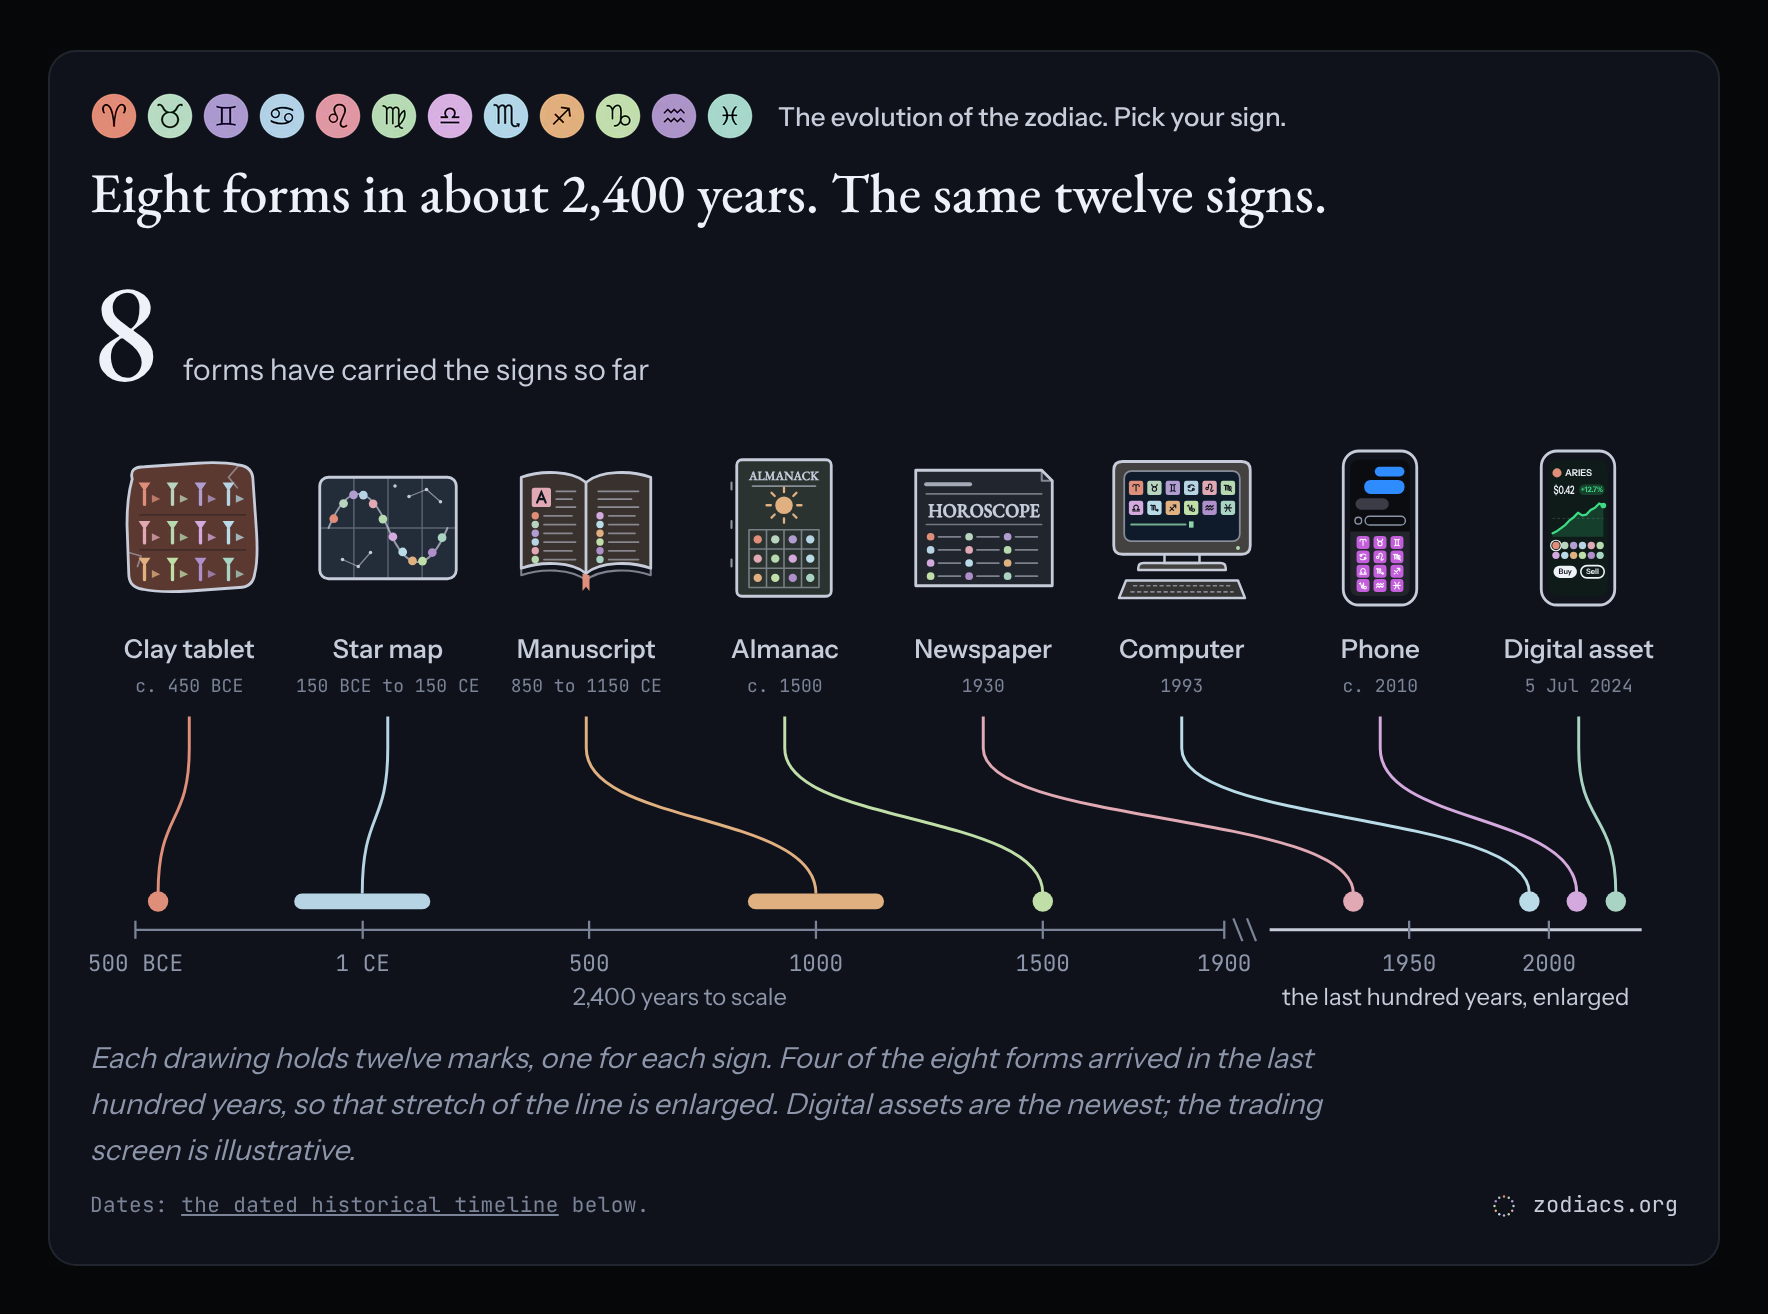
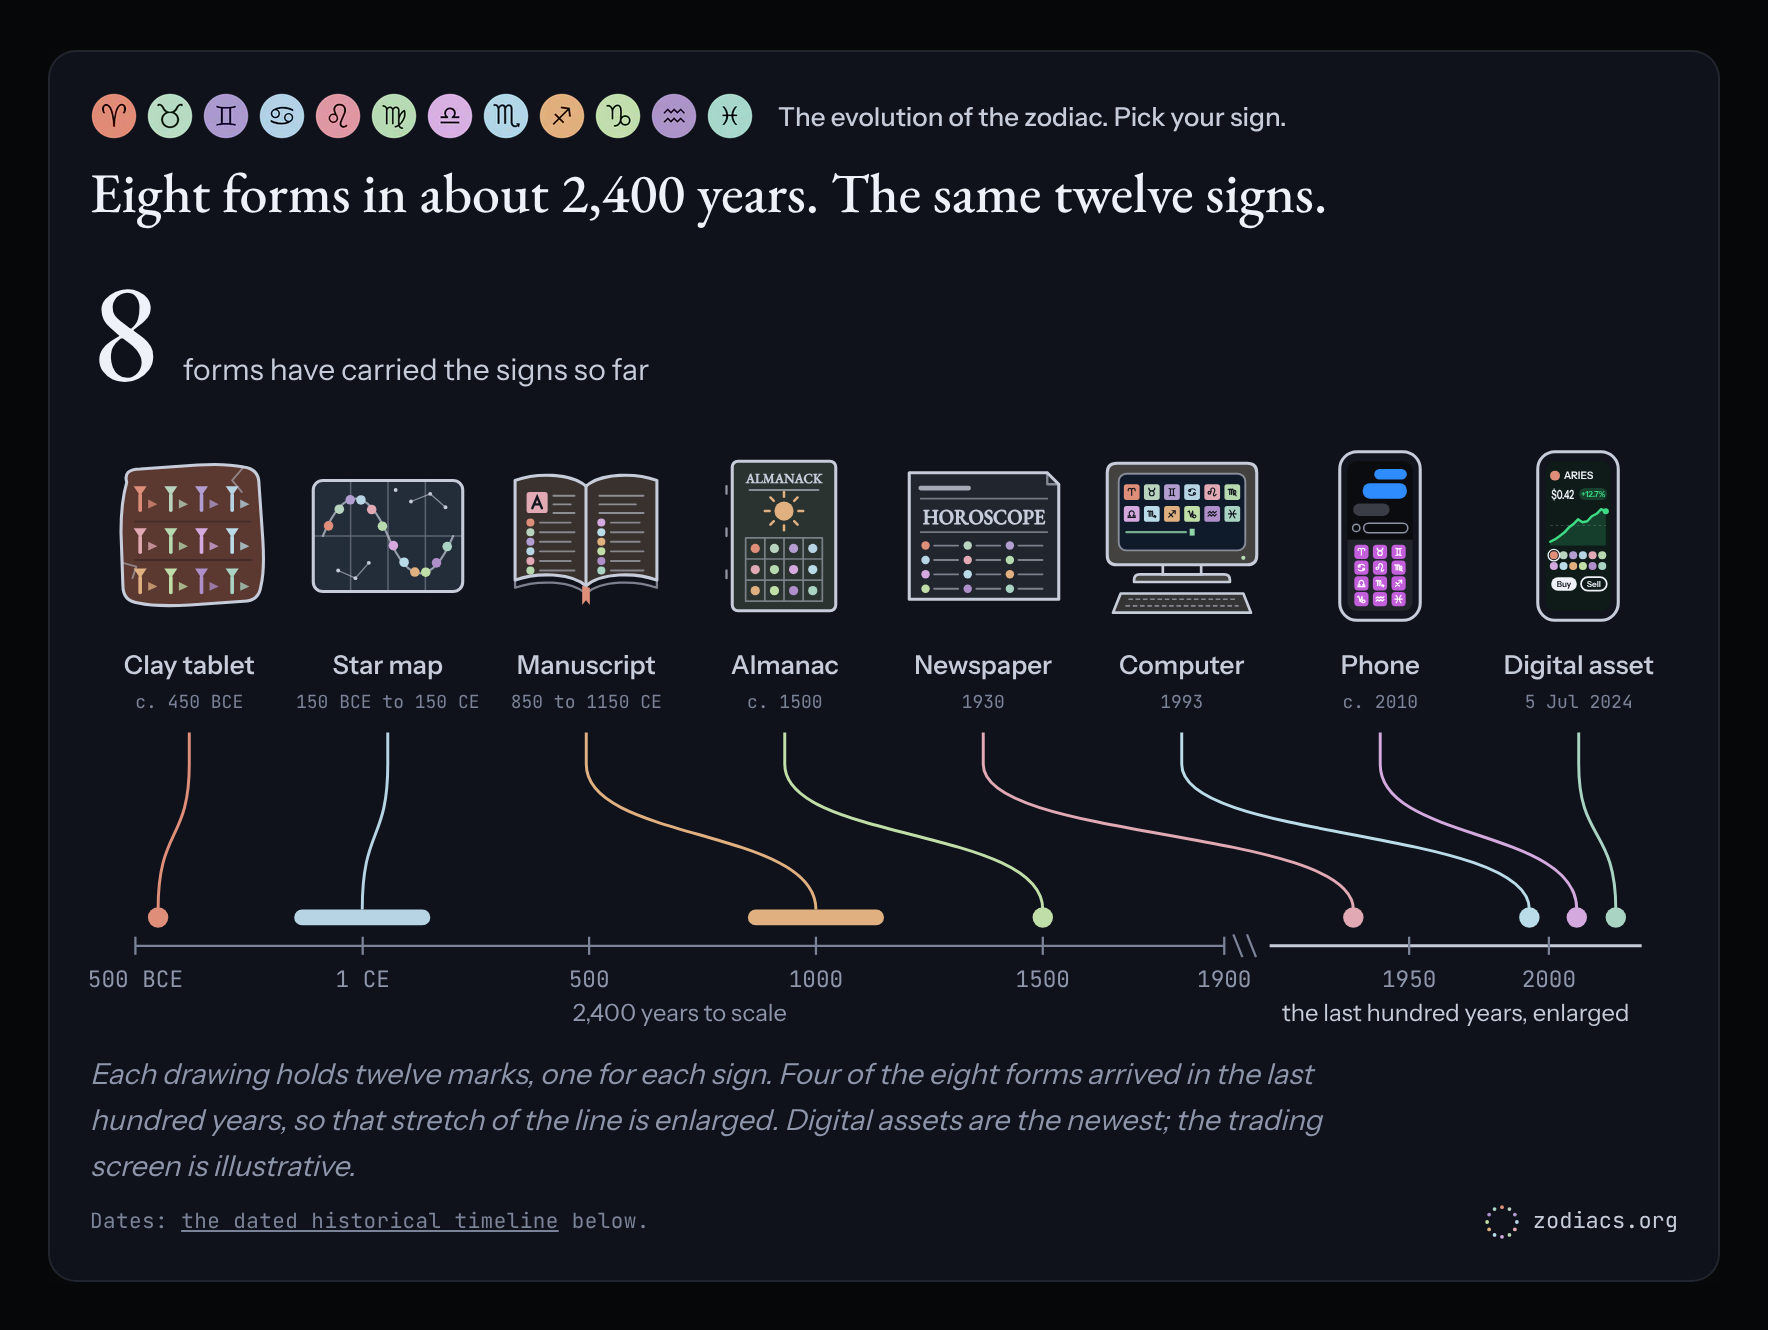
Thesis timeline plate: slightly larger drawings, a legible brand ring, share image re-rendered
Review of the eight-form build: the drawings sat small in their columns, so
their box goes from 84 to 92 px at desktop widths; the brand ring's twelve
dots were under a pixel wide at 16 px, so its viewBox is cropped to the ring
and it is drawn at 18 px. The share image is rendered again from this state.

Claude-Session: https://claude.ai/code/session_017aVyvMeG3Sxu8Ds3R1JyHe

diff --git a/public/thesis/index.html b/public/thesis/index.html
@@ -1113,7 +1113,7 @@
     #fig-1 .transmission::after { display: none; }
     #fig-1 .era { padding: 0 2px; }
     #fig-1 .era__object {
-      width: 84px; height: 84px; margin: 0 auto 10px; padding: 0;
+      width: 92px; height: 92px; margin: 0 auto 10px; padding: 0;
       background: none; border: 0; border-radius: 0; box-shadow: none;
       color: var(--ink-2);
     }
@@ -1164,7 +1164,7 @@
       display: inline-flex; align-items: center; gap: 6px; margin-left: auto; align-self: center;
       font-family: var(--mono); font-size: 11px; line-height: 1.6; color: var(--ink-2); white-space: nowrap;
     }
-    #fig-1 .carry-brand svg { display: block; width: 16px; height: 16px; flex: none; }
+    #fig-1 .carry-brand svg { display: block; width: 18px; height: 18px; flex: none; }
     /* The share image is rendered from the live plate, with no controls and no hover. */
     html.is-capture #fig-1 .carry-actions { display: none; }
     html.is-capture #fig-1 .era__tip, html.is-capture #fig-1 .era::before { visibility: hidden !important; opacity: 0 !important; }
@@ -2189,7 +2189,7 @@
             </div>
             <svg class="carry-axis" viewBox="0 0 700 132" aria-hidden="true"><path class="carry-lead" pathLength="1" data-f="0" style="--i:0;--t:100ms" d="M43.75 2V16C43.75 50,30.0 44,30.0 80" fill="none" stroke="#DE8E79" stroke-width="1.3"/><circle class="carry-mark" data-f="0" style="--i:0;--t:100ms" cx="30.0" cy="83.5" r="4.5" fill="#DE8E79"/><path class="carry-lead" pathLength="1" data-f="1" style="--i:1;--t:420ms" d="M131.25 2V16C131.25 50,120.0 44,120.0 80" fill="none" stroke="#B6D4E4" stroke-width="1.3"/><rect class="carry-mark" data-f="1" style="--i:1;--t:420ms" x="90.0" y="80" width="60.0" height="7" rx="3.5" fill="#B6D4E4"/><path class="carry-lead" pathLength="1" data-f="2" style="--i:2;--t:1270ms" d="M218.75 2V16C218.75 50,320.0 44,320.0 80" fill="none" stroke="#E0B080" stroke-width="1.3"/><rect class="carry-mark" data-f="2" style="--i:2;--t:1270ms" x="290.0" y="80" width="60.0" height="7" rx="3.5" fill="#E0B080"/><path class="carry-lead" pathLength="1" data-f="3" style="--i:3;--t:1690ms" d="M306.25 2V16C306.25 50,420.0 44,420.0 80" fill="none" stroke="#C0DEA8" stroke-width="1.3"/><circle class="carry-mark" data-f="3" style="--i:3;--t:1690ms" cx="420.0" cy="83.5" r="4.5" fill="#C0DEA8"/><path class="carry-lead" pathLength="1" data-f="4" style="--i:4;--t:2260ms" d="M393.75 2V16C393.75 50,556.9 44,556.9 80" fill="none" stroke="#E0A9B4" stroke-width="1.3"/><circle class="carry-mark" data-f="4" style="--i:4;--t:2260ms" cx="556.9" cy="83.5" r="4.5" fill="#E0A9B4"/><path class="carry-lead" pathLength="1" data-f="5" style="--i:5;--t:2590ms" d="M481.25 2V16C481.25 50,634.5 44,634.5 80" fill="none" stroke="#B9DCE8" stroke-width="1.3"/><circle class="carry-mark" data-f="5" style="--i:5;--t:2590ms" cx="634.5" cy="83.5" r="4.5" fill="#B9DCE8"/><path class="carry-lead" pathLength="1" data-f="6" style="--i:6;--t:2810ms" d="M568.75 2V16C568.75 50,655.4 44,655.4 80" fill="none" stroke="#D3A9DE" stroke-width="1.3"/><circle class="carry-mark" data-f="6" style="--i:6;--t:2810ms" cx="655.4" cy="83.5" r="4.5" fill="#D3A9DE"/><path class="carry-lead" pathLength="1" data-f="7" style="--i:7;--t:3030ms" d="M656.25 2V16C656.25 50,672.6 44,672.6 80" fill="none" stroke="#A9D4C4" stroke-width="1.3"/><circle class="carry-mark" data-f="7" style="--i:7;--t:3030ms" cx="672.6" cy="83.5" r="4.5" fill="#A9D4C4"/><g class="carry-line"><path d="M20 96H500" stroke="#7c8496"/><path d="M504 91l4 10M510 91l4 10" stroke="#7c8496" stroke-width="1"/><path d="M520 96H684" stroke="#c6ccda" stroke-width="1.4"/></g><path class="carry-tick" d="M20.0 92V100" stroke="#7c8496"/><text class="carry-tick" x="20.0" y="114" text-anchor="middle" font-size="10" fill="#8b93a5">500 BCE</text><path class="carry-tick" d="M120.2 92V100" stroke="#7c8496"/><text class="carry-tick" x="120.2" y="114" text-anchor="middle" font-size="10" fill="#8b93a5">1 CE</text><path class="carry-tick" d="M220.0 92V100" stroke="#7c8496"/><text class="carry-tick" x="220.0" y="114" text-anchor="middle" font-size="10" fill="#8b93a5">500</text><path class="carry-tick" d="M320.0 92V100" stroke="#7c8496"/><text class="carry-tick" x="320.0" y="114" text-anchor="middle" font-size="10" fill="#8b93a5">1000</text><path class="carry-tick" d="M420.0 92V100" stroke="#7c8496"/><text class="carry-tick" x="420.0" y="114" text-anchor="middle" font-size="10" fill="#8b93a5">1500</text><path class="carry-tick" d="M500.0 92V100" stroke="#7c8496"/><text class="carry-tick" x="500.0" y="114" text-anchor="middle" font-size="10" fill="#8b93a5">1900</text><path class="carry-tick" d="M581.5 92V100" stroke="#7c8496"/><text class="carry-tick" x="581.5" y="114" text-anchor="middle" font-size="10" fill="#8b93a5">1950</text><path class="carry-tick" d="M643.1 92V100" stroke="#7c8496"/><text class="carry-tick" x="643.1" y="114" text-anchor="middle" font-size="10" fill="#8b93a5">2000</text><text class="carry-note" x="260" y="129" text-anchor="middle" font-size="10.5" fill="#8b93a5">2,400 years to scale</text><text class="carry-note" x="602" y="129" text-anchor="middle" font-size="10.5" fill="#c6ccda">the last hundred years, enlarged</text></svg>
             <p class="zfig-cap">Each drawing holds twelve marks, one for each sign. Four of the eight forms arrived in the last hundred years, so that stretch of the line is enlarged. Digital assets are the newest; the trading screen is illustrative.</p>
-            <div class="carry-foot"><p class="zfig-src">Dates: <a href="#dated-timeline">the dated historical timeline</a> below.</p><span class="carry-brand"><svg viewBox="0 0 64 64" aria-hidden="true"><circle cx="32.000" cy="13.000" r="2.4" fill="#DE8E79"/><circle cx="41.500" cy="15.546" r="2.4" fill="#B9D4BE"/><circle cx="48.454" cy="22.500" r="2.4" fill="#B29DD0"/><circle cx="51.000" cy="32.000" r="2.4" fill="#B6D4E4"/><circle cx="48.454" cy="41.500" r="2.4" fill="#E0A9B4"/><circle cx="41.500" cy="48.454" r="2.4" fill="#B7D9B0"/><circle cx="32.000" cy="51.000" r="2.4" fill="#D3A9DE"/><circle cx="22.500" cy="48.454" r="2.4" fill="#B9DCE8"/><circle cx="15.546" cy="41.500" r="2.4" fill="#E0B080"/><circle cx="13.000" cy="32.000" r="2.4" fill="#C0DEA8"/><circle cx="15.546" cy="22.500" r="2.4" fill="#AE8FC9"/><circle cx="22.500" cy="15.546" r="2.4" fill="#A9D4C4"/></svg>zodiacs.org</span></div>
+            <div class="carry-foot"><p class="zfig-src">Dates: <a href="#dated-timeline">the dated historical timeline</a> below.</p><span class="carry-brand"><svg viewBox="9 9 46 46" aria-hidden="true"><circle cx="32.000" cy="13.000" r="2.4" fill="#DE8E79"/><circle cx="41.500" cy="15.546" r="2.4" fill="#B9D4BE"/><circle cx="48.454" cy="22.500" r="2.4" fill="#B29DD0"/><circle cx="51.000" cy="32.000" r="2.4" fill="#B6D4E4"/><circle cx="48.454" cy="41.500" r="2.4" fill="#E0A9B4"/><circle cx="41.500" cy="48.454" r="2.4" fill="#B7D9B0"/><circle cx="32.000" cy="51.000" r="2.4" fill="#D3A9DE"/><circle cx="22.500" cy="48.454" r="2.4" fill="#B9DCE8"/><circle cx="15.546" cy="41.500" r="2.4" fill="#E0B080"/><circle cx="13.000" cy="32.000" r="2.4" fill="#C0DEA8"/><circle cx="15.546" cy="22.500" r="2.4" fill="#AE8FC9"/><circle cx="22.500" cy="15.546" r="2.4" fill="#A9D4C4"/></svg>zodiacs.org</span></div>
           </figure>
           <p>
             Nobody owns the zodiac. A coin named after a team, a cartoon or a celebrity borrows a name that belongs to someone, and that someone can object. The signs are older than every company and every country, so there is no one to ask and no one who can take them back. They are nobody’s scripture and nobody’s flag. People who think astrology is nonsense will still tell you their sign.
